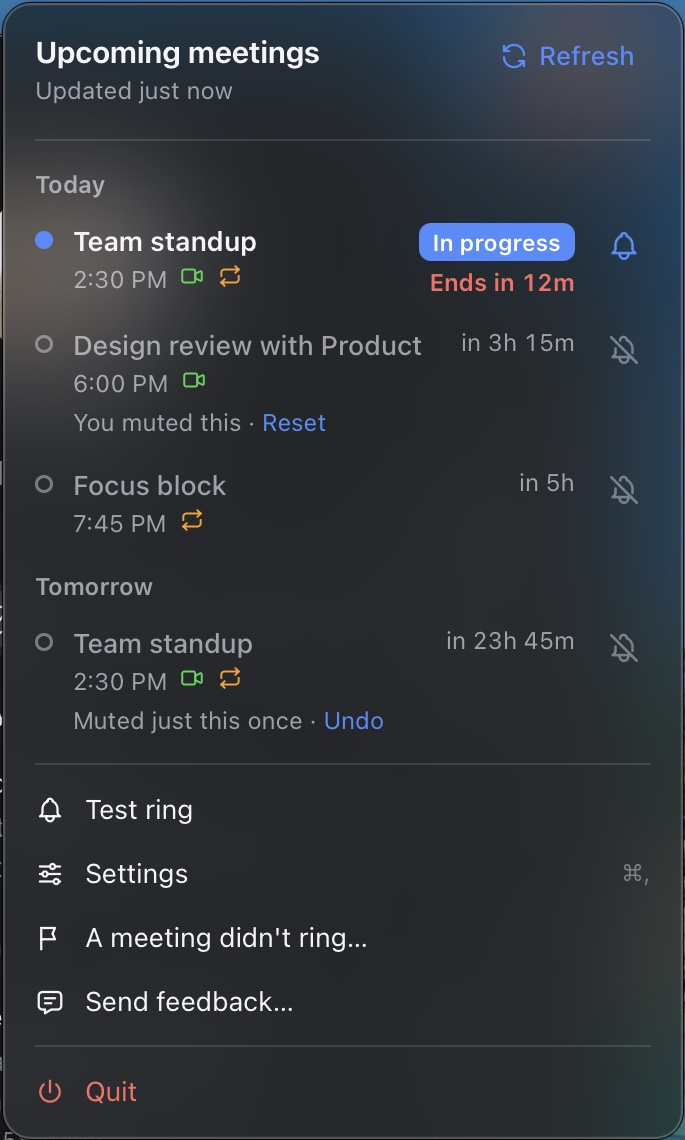
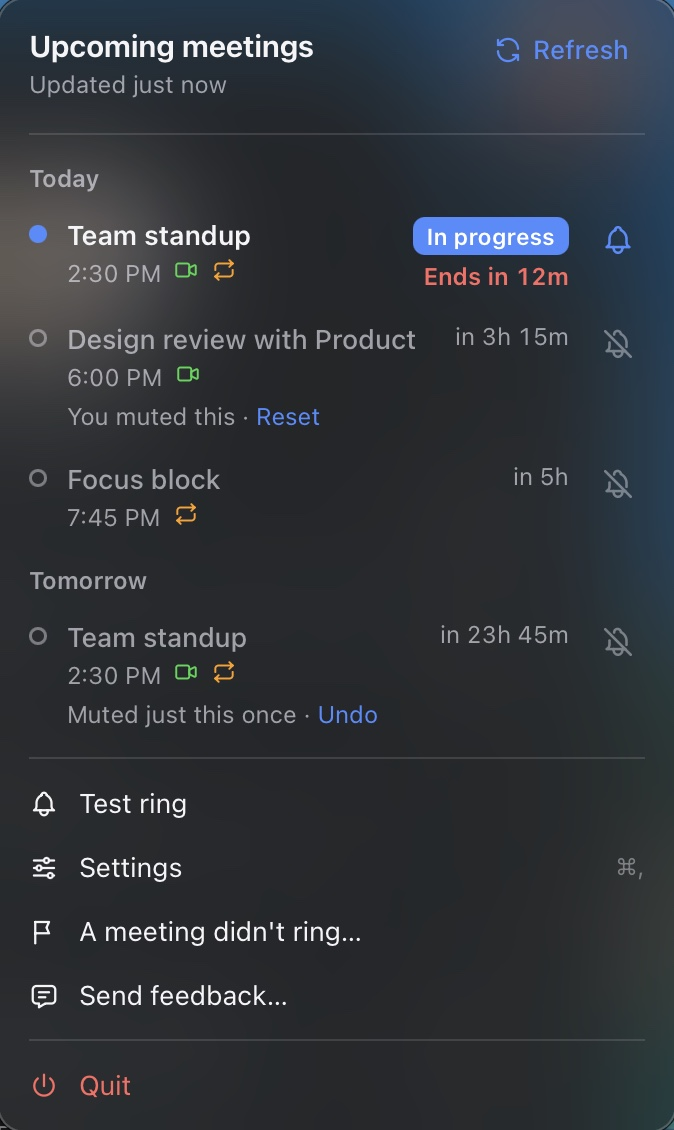
Clean up the menu panel screenshot's edges
Re-crop inside the panel's own border so no background shows along the
left edge or in the corners; the page now rounds the corners and draws a
hairline edge in its place.

diff --git a/style.css b/style.css
@@ -74,7 +74,11 @@ section.alt .card { background: var(--bg); }
 .split ul { margin: 0; padding: 0; list-style: none; display: grid; gap: 12px; }
 .split li { display: flex; gap: 10px; color: var(--muted); }
 .split li::before { content: ""; flex: none; width: 8px; height: 8px; margin-top: 10px; border-radius: 50%; background: var(--accent); }
-.panel-shot { max-width: 360px; margin: 0 auto; border-radius: 18px; overflow: hidden; box-shadow: 0 24px 60px rgba(10, 20, 40, .28); }
+.panel-shot { position: relative; max-width: 360px; margin: 0 auto; border-radius: 15px; overflow: hidden;
+  box-shadow: 0 24px 60px rgba(10, 20, 40, .28); }
+/* A hairline edge drawn over the image, standing in for the panel's own border (cropped off). */
+.panel-shot::after { content: ""; position: absolute; inset: 0; border-radius: inherit; pointer-events: none;
+  box-shadow: inset 0 0 0 1px rgba(255, 255, 255, .14); }
 
 .steps { counter-reset: step; display: grid; grid-template-columns: repeat(auto-fit, minmax(240px, 1fr)); gap: 18px; }
 .steps .card::before { counter-increment: step; content: counter(step); display: grid; place-items: center; width: 32px; height: 32px;

diff --git a/index.html b/index.html
@@ -122,7 +122,7 @@
           <li>Join straight from the list</li>
         </ul>
       </div>
-      <div class="panel-shot"><img src="/assets/menu-panel.jpg" loading="lazy" alt="The MeetChime menu bar panel listing upcoming meetings with countdowns and bell toggles" width="685" height="1140"></div>
+      <div class="panel-shot"><img src="/assets/menu-panel.jpg" loading="lazy" alt="The MeetChime menu bar panel listing upcoming meetings with countdowns and bell toggles" width="674" height="1130"></div>
     </div>
   </section>
 
